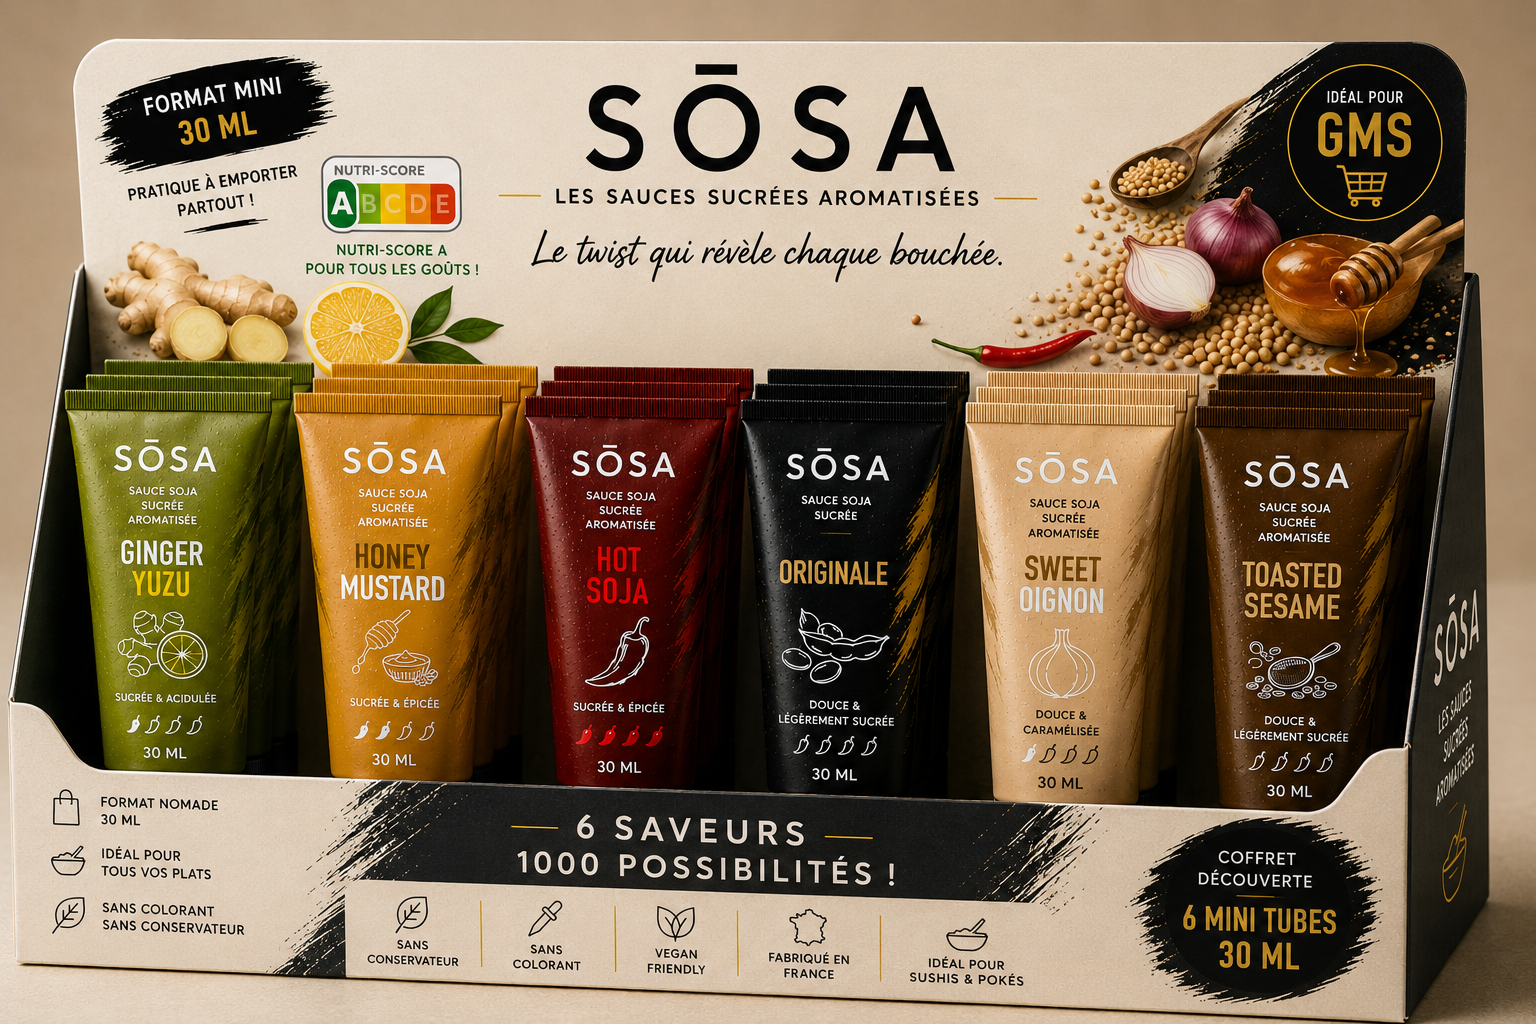
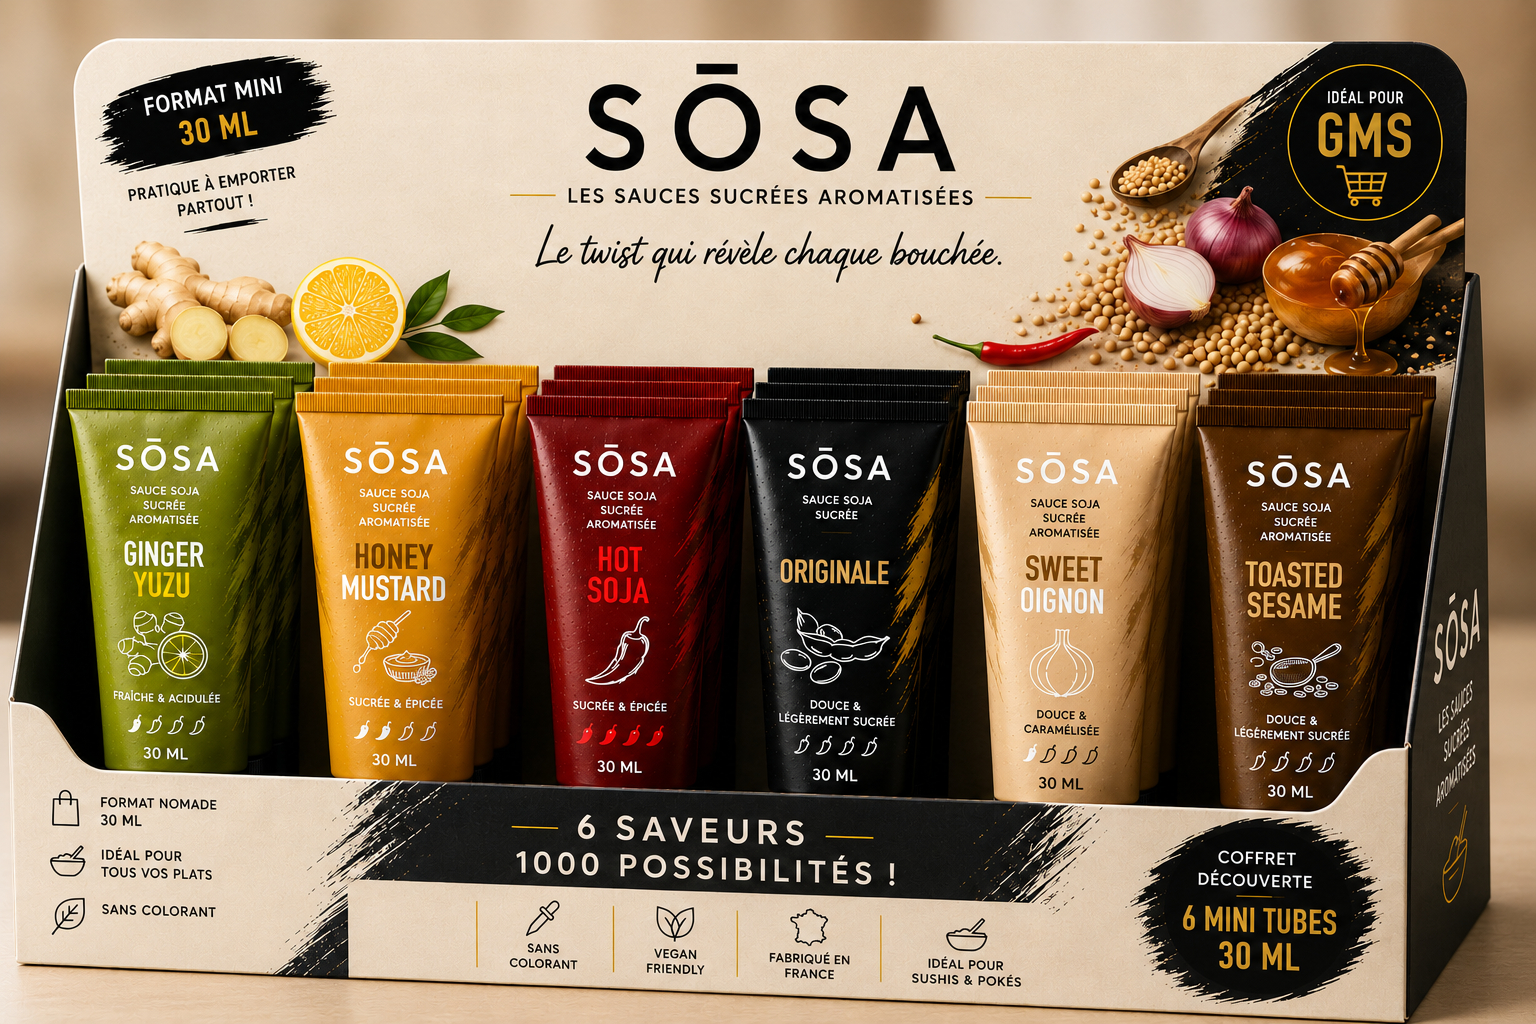
correction text contenu

diff --git a/src/data/products.js b/src/data/products.js
@@ -25,7 +25,7 @@ export const PRODUCTS = [
       { name: 'Tartare de Saumon & Mangue', icon: '🥭', tip: 'Le contraste piment-mangue crée une dépendance immédiate.' },
       { name: 'Brochettes Yakitori & Viandes grillées', icon: '🍢', tip: 'Laque épicée caramélisant au contact du grill.' }
     ],
-    features: ['Sans conservateur', 'Sans colorant', 'Vegan Friendly', 'Fabriqué en France', 'Format Squeeze 150 ML'],
+    features: ['Sans colorant', 'Vegan Friendly', 'Fabriqué en France', 'Format Squeeze 150 ML'],
     chefQuote: 'Le kick parfait qui transforme un simple roll en un moment de pure intensité.'
   },
   {
@@ -54,7 +54,7 @@ export const PRODUCTS = [
       { name: 'Sashimis de Saumon sauvage', icon: '🍣', tip: 'Casse la richesse du saumon avec éclat.' },
       { name: 'Céviche & Tartare acidulé', icon: '🍋', tip: 'Idéal en marinade minute avec coriandre fraîche.' }
     ],
-    features: ['Sans conservateur', 'Sans colorant', 'Vegan Friendly', 'Fabriqué en France', 'Format Squeeze 150 ML'],
+    features: ['Sans colorant', 'Vegan Friendly', 'Fabriqué en France', 'Format Squeeze 150 ML'],
     chefQuote: 'Le coup de fouet aromatique indispensable pour les amateurs de poisson cru ultra-frais.'
   },
   {
@@ -83,7 +83,7 @@ export const PRODUCTS = [
       { name: 'Avocado Toast & Œuf mollet', icon: '🥑', tip: 'Drizzle artistique pour un brunch haut de gamme.' },
       { name: 'Saumon rôti au four', icon: '🔥', tip: 'Badigeonner avant enfournement pour une croûte caramélisée.' }
     ],
-    features: ['Sans conservateur', 'Sans colorant', 'Vegan Friendly', 'Fabriqué en France', 'Format Squeeze 150 ML'],
+    features: ['Sans colorant', 'Vegan Friendly', 'Fabriqué en France', 'Format Squeeze 150 ML'],
     chefQuote: 'L\'alliance inattendue qui fait le pont parfait entre street-food festive et finesse culinaire.'
   },
   {
@@ -112,7 +112,7 @@ export const PRODUCTS = [
       { name: 'Tataki de Thon ou Bœuf', icon: '🥩', tip: 'Souligne la croûte saisie et le cœur fondant.' },
       { name: 'Salade de Chou Japonaise', icon: '🥗', tip: 'Dressing onctueux pour un croquant parfait.' }
     ],
-    features: ['Sans conservateur', 'Sans colorant', 'Vegan Friendly', 'Fabriqué en France', 'Format Squeeze 150 ML'],
+    features: ['Sans colorant', 'Vegan Friendly', 'Fabriqué en France', 'Format Squeeze 150 ML'],
     chefQuote: 'Une longueur en bouche bluffante grâce à la chaleur du sésame artisanal torréfié.'
   },
   {
@@ -141,7 +141,7 @@ export const PRODUCTS = [
       { name: 'Poké Végétarien & Tofu fumé', icon: '🥑', tip: 'Sublime l\'avocat et le tofu grillé.' },
       { name: 'Tempuras de Crevettes', icon: '🍤', tip: 'L\'accord croustillant-fondant le plus addictif.' }
     ],
-    features: ['Sans conservateur', 'Sans colorant', 'Vegan Friendly', 'Fabriqué en France', 'Format Squeeze 150 ML'],
+    features: ['Sans colorant', 'Vegan Friendly', 'Fabriqué en France', 'Format Squeeze 150 ML'],
     chefQuote: 'La sauce réconfort par excellence, douce et régressive avec une touche gastronomique.'
   },
   {
@@ -170,7 +170,7 @@ export const PRODUCTS = [
       { name: 'Poké Bowl Hawaïen', icon: '🥗', tip: 'En base assaisonnée sur le riz tiède vinaigré.' },
       { name: 'Riz sauté & Wok de légumes', icon: '🥢', tip: 'En fin de cuisson pour une laque brillante et savoureuse.' }
     ],
-    features: ['Sans conservateur', 'Sans colorant', 'Vegan Friendly', 'Fabriqué en France', 'Format Squeeze 150 ML'],
+    features: ['Sans colorant', 'Vegan Friendly', 'Fabriqué en France', 'Format Squeeze 150 ML'],
     chefQuote: 'La quintessence du soja sucré. Une texture soyeuse qui nappe sans jamais saturer le palais.'
   },
   {
@@ -199,7 +199,7 @@ export const PRODUCTS = [
       { name: 'Smash Burgers & Barbecue', icon: '🍔', tip: 'Une touche fumée gastronomique dans vos sauces burger.' },
       { name: 'Légumes racines rôtis', icon: '🥕', tip: 'Caramélisation et parfum de braise irrésistible.' }
     ],
-    features: ['Sans conservateur', 'Sans colorant', 'Vegan Friendly', 'Fabriqué en France', 'Format Squeeze 150 ML'],
+    features: ['Sans colorant', 'Vegan Friendly', 'Fabriqué en France', 'Format Squeeze 150 ML'],
     chefQuote: 'Une signature aromatique unique qui donne à n\'importe quel plat un goût de cuisson au feu de bois.'
   },
   {
@@ -228,7 +228,7 @@ export const PRODUCTS = [
       { name: 'Tofu grillé & Champignons Shiitaké', icon: '🍄', tip: 'Amplifie le goût boisé et la texture fondante.' },
       { name: 'Carpaccio de Bœuf Wagyu', icon: '🥩', tip: 'Un contraste visuel et un accord gras-minéral sublime.' }
     ],
-    features: ['Sans conservateur', 'Sans colorant', 'Vegan Friendly', 'Fabriqué en France', 'Format Squeeze 150 ML'],
+    features: ['Sans colorant', 'Vegan Friendly', 'Fabriqué en France', 'Format Squeeze 150 ML'],
     chefQuote: 'Le sésame noir apporte une rusticité noble et un relief aromatique hors du commun.'
   },
   {
@@ -257,7 +257,7 @@ export const PRODUCTS = [
       { name: 'Gyozas Vapeur', icon: '🥟', tip: 'Dipping sauce nette et saline pour les farces juteuses.' },
       { name: 'Ramen & Bouillons clairs', icon: '🍜', tip: 'Une touche finale pour approfondir le bouillon.' }
     ],
-    features: ['Sans conservateur', 'Sans colorant', 'Vegan Friendly', 'Fabriqué en France', 'Format Squeeze 150 ML'],
+    features: ['Sans colorant', 'Vegan Friendly', 'Fabriqué en France', 'Format Squeeze 150 ML'],
     chefQuote: 'La précision chirurgicale de la sauce salée : ni trop agressive, ni effacée, la définition même de l\'équilibre.'
   }
 ];
@@ -278,7 +278,7 @@ export const BRAND_PILLARS = [
   {
     title: '100% Vegan & Sans Additifs',
     subtitle: 'Pureté des ingrédients',
-    desc: 'Aucun colorant artificiel, aucun conservateur chimique. Une composition saine qui sublime le goût brut de chaque condiment.',
+    desc: 'Aucun colorant artificiel. Une composition soignée et saine qui sublime le goût brut de chaque condiment.',
     icon: 'Leaf'
   },
   {

diff --git a/src/components/MiniProSection.jsx b/src/components/MiniProSection.jsx
@@ -115,18 +115,18 @@ export default function MiniProSection({ onOpenB2B }) {
         {/* ==================================================================== */}
         {/* TITRE PENSÉ POUR LES RESTAURANTS JAPONAIS & SUSHI BARS               */}
         {/* ==================================================================== */}
-        <div className="text-center max-w-3xl mx-auto mb-10 sm:mb-14">
+        <div className="text-center max-w-4xl mx-auto mb-10 sm:mb-14">
           <span className="text-[10px] sm:text-[11px] font-mono uppercase tracking-[0.22em] sm:tracking-[0.3em] text-amber-400 block mb-3 font-semibold">
             Restaurateurs, faites la différence à chaque bouchée
           </span>
-          <h2 className="mini-pro-title text-3xl sm:text-5xl md:text-6xl font-heading font-black uppercase text-white tracking-tight leading-[1.05]">
+          <h2 className="mini-pro-title text-3xl sm:text-5xl md:text-6xl font-heading font-black uppercase text-white tracking-tight leading-[1.14] sm:leading-[1.16]">
             Le format 30 ml <br />
-            <span className="title-accent-gradient text-transparent bg-clip-text bg-gradient-to-r from-amber-200 via-amber-400 to-yellow-400">
-              pensé pour vos sushis.
+            <span className="title-accent-gradient inline-block pt-2 pb-1 text-transparent bg-clip-text bg-gradient-to-r from-amber-200 via-amber-400 to-yellow-400">
+              pensé pour la livraison de vos sushis.
             </span>
           </h2>
           <p className="mini-pro-subtitle text-zinc-400 mt-4 text-sm sm:text-base font-light max-w-2xl mx-auto leading-relaxed">
-            Finies les coupelles de soja renversées et les sachets plastiques bas de gamme. 5 recettes uniques au format squeeze 30 ml — la dose idéale pour accompagner un plateau de 12 à 18 sushis, en salle comme en livraison.
+            Finies les coupelles de soja renversées et les sachets plastiques pas pratique. 9 recettes uniques au format squeeze 30 ml — la dose idéale pour accompagner un plateau de sushis, en salle comme en livraison.
           </p>
         </div>
 
@@ -135,25 +135,7 @@ export default function MiniProSection({ onOpenB2B }) {
         {/* ==================================================================== */}
         <div className="relative mb-16 sm:mb-24">
 
-          {/* Subtle Top Navigation Track */}
-          <div className="flex items-center justify-center gap-2 sm:gap-6 mb-8 sm:mb-12 overflow-x-auto scrollbar-none pb-2">
-            {MINI_PRO_ITEMS.map((item) => {
-              const isSelected = item.id === activeItem.id;
-              return (
-                <button
-                  key={item.id}
-                  onClick={() => setActiveItem(item)}
-                  className={`text-xs sm:text-sm tracking-wider uppercase transition-all duration-300 py-1.5 px-3 rounded-full cursor-pointer flex items-center gap-2 shrink-0 ${isSelected
-                      ? 'text-white font-bold bg-white/10 shadow-sm'
-                      : 'mini-pro-track-inactive text-zinc-500 hover:text-zinc-300'
-                    }`}
-                >
-                  <span className="font-mono text-[10px] text-amber-400">{item.num}</span>
-                  <span className="font-heading">{item.name}</span>
-                </button>
-              );
-            })}
-          </div>
+
 
           {/* Runway of the 5 Bottles standing in pure space */}
           <div className="relative flex items-end justify-between sm:justify-around gap-1 sm:gap-4 px-2 sm:px-8 pt-10 sm:pt-14 pb-4">
@@ -192,29 +174,6 @@ export default function MiniProSection({ onOpenB2B }) {
                     />
                   </motion.div>
 
-                  {/* Clean Minimalist Under-Bottle Marker : Trait d'or d'orfèvre */}
-                  <div className="mt-4 flex flex-col items-center gap-1 w-full">
-                    <span className={`mini-pro-label text-xs sm:text-sm font-heading font-bold tracking-wider transition-colors text-center ${isSelected ? 'text-white' : 'text-zinc-400 group-hover:text-zinc-200'
-                      }`}>
-                      {item.name}
-                    </span>
-                    <span className="mini-pro-volume text-[10px] font-mono tracking-widest font-semibold text-amber-400">
-                      30 ML
-                    </span>
-
-                    {/* Fin trait d'or horizontal d'orfèvre */}
-                    <div className="h-[2px] w-full flex items-center justify-center mt-1">
-                      {isSelected ? (
-                        <motion.div
-                          layoutId="activeBottleGoldLine"
-                          className="w-10 sm:w-14 h-[2px] bg-gradient-to-r from-amber-400 via-amber-300 to-amber-500 rounded-full shadow-[0_0_8px_rgba(245,158,11,0.5)]"
-                          transition={{ type: 'spring', stiffness: 350, damping: 28 }}
-                        />
-                      ) : (
-                        <div className="gold-inlay-inactive w-3.5 h-[1px] bg-white/10 group-hover:bg-amber-400/30 group-hover:w-5 transition-all duration-300" />
-                      )}
-                    </div>
-                  </div>
                 </div>
               );
             })}

diff --git a/src/components/Hero.jsx b/src/components/Hero.jsx
@@ -1,5 +1,5 @@
 import React, { useRef, useEffect, useState } from 'react';
-import { ArrowDown, Sparkles, Compass } from 'lucide-react';
+import { ArrowDown } from 'lucide-react';
 
 export default function Hero({ onSelectFlavor }) {
   const videoRef = useRef(null);
@@ -21,7 +21,7 @@ export default function Hero({ onSelectFlavor }) {
   }, [isMobile]);
 
   return (
-    <section className="relative min-h-[100dvh] flex items-center justify-center overflow-hidden" style={{ backgroundColor: 'var(--bg-page)' }}>
+    <section className="relative min-h-[100dvh] flex flex-col justify-end items-center overflow-hidden" style={{ backgroundColor: 'var(--bg-page)' }}>
       {/* 1. CINEMATIC BACKGROUND VIDEO (100% silencieux et continu) */}
       <div className="absolute inset-0 w-full h-full overflow-hidden z-0 pointer-events-none">
         <video
@@ -48,11 +48,11 @@ export default function Hero({ onSelectFlavor }) {
         <div className="absolute top-0 inset-x-0 h-32" style={{ background: `linear-gradient(to bottom, var(--hero-top-fade), var(--hero-top-fade, transparent) 50%, transparent)` }} />
 
         {/* Bottom Seamless Fade into Page Background */}
-        <div className="absolute bottom-0 inset-x-0 h-28" style={{ background: `linear-gradient(to top, var(--bg-body), var(--bg-body, transparent) 70%, transparent)` }} />
+        <div className="absolute bottom-0 inset-x-0 h-36 sm:h-48" style={{ background: `linear-gradient(to top, var(--bg-body), var(--bg-body, transparent) 60%, transparent)` }} />
       </div>
 
-      {/* 2. HERO CONTENT */}
-      <div className="relative z-10 max-w-5xl mx-auto px-4 sm:px-6 lg:px-8 pt-24 pb-6 sm:pt-28 sm:pb-8 text-center flex flex-col items-center">
+      {/* 2. HERO CONTENT — Positionné en bas pour dégager la vidéo et les flacons au centre */}
+      <div className="relative z-10 max-w-5xl mx-auto px-4 sm:px-6 lg:px-8 pt-24 pb-8 sm:pb-12 text-center flex flex-col items-center w-full">
 
         {/* Main Punchy Headline */}
         <h1 className="text-3xl sm:text-6xl md:text-7xl lg:text-8xl font-black uppercase text-white tracking-tight leading-[1.02] sm:leading-[0.95] max-w-4xl drop-shadow-2xl mb-5 sm:mb-6">
@@ -69,24 +69,7 @@ export default function Hero({ onSelectFlavor }) {
           Pensées pour sublimer vos sushis et pokés.
         </p>
 
-        {/* CTA Buttons */}
-        <div className="flex flex-col sm:flex-row items-center justify-center gap-2.5 sm:gap-4 w-full sm:w-auto mb-4 sm:mb-6">
-          <a
-            href="#collection"
-            className="w-full max-w-[240px] sm:max-w-none sm:w-auto px-5 sm:px-8 py-2.5 sm:py-4 rounded-full bg-gradient-to-r from-amber-400 via-amber-500 to-yellow-500 hover:from-amber-300 hover:to-amber-400 text-black font-bold text-[11px] sm:text-sm uppercase tracking-wider sm:tracking-widest shadow-lg sm:shadow-xl shadow-amber-500/20 transition-all duration-300 hover:scale-105 active:scale-95 flex items-center justify-center gap-2 group"
-          >
-            <Sparkles className="w-3.5 h-3.5 sm:w-4 sm:h-4 transition-transform group-hover:rotate-12" />
-            <span>Explorer nos saveurs<span className="hidden sm:inline"> originales</span></span>
-          </a>
 
-          <a
-            href="#trouver"
-            className="hero-secondary-btn w-full max-w-[240px] sm:max-w-none sm:w-auto px-5 sm:px-8 py-2.5 sm:py-4 rounded-full font-semibold text-[11px] sm:text-sm uppercase tracking-wider sm:tracking-widest backdrop-blur-md transition-all duration-300 hover:scale-105 active:scale-95 flex items-center justify-center gap-2"
-          >
-            <Compass className="hero-btn-icon w-3.5 h-3.5 sm:w-4 sm:h-4" />
-            <span>Où nous trouver</span>
-          </a>
-        </div>
 
         {/* Scroll Indicator */}
         <div className="flex justify-center">

diff --git a/src/components/GrandeDistribution.jsx b/src/components/GrandeDistribution.jsx
@@ -25,9 +25,9 @@ const PILLARS = [
   },
   {
     num: '二',
-    tag: 'Argument santé',
-    title: 'Nutri-Score A',
-    text: 'Un Nutri-Score A pour tous les goûts : un repère qui rassure vos clients et fait la différence face aux sauces classiques.',
+    tag: 'Signature unique',
+    title: 'Recettes exclusives',
+    text: 'Des twists de saveurs inédits (Yuzu, Fumé, Piment doux, Sésame...) qui dynamisent vos linéaires et créent la surprise.',
   },
   {
     num: '三',
@@ -37,9 +37,9 @@ const PILLARS = [
   },
   {
     num: '四',
-    tag: 'Clean label',
+    tag: 'Savoir-faire',
     title: 'Fabriqué en France',
-    text: 'Sans colorant, sans conservateur, vegan friendly. Une marque premium et responsable, en phase avec les attentes actuelles.',
+    text: "Élaboré avec passion en France, sans colorant artificiel. Une sélection d'ingrédients nobles pour une qualité irréprochable en rayon.",
   },
 ];
 
@@ -158,16 +158,15 @@ export default function GrandeDistribution({ onOpenB2B }) {
 
             <h2
               id="gd-title"
-              className="font-heading font-black uppercase tracking-tight leading-[0.98] text-[2.15rem] sm:text-5xl md:text-6xl lg:text-7xl gd-text"
+              className="font-heading font-black uppercase tracking-tight leading-[1.02] text-2xl sm:text-4xl md:text-5xl lg:text-6xl gd-text"
             >
-              Un présentoir.
-              <br />
-              <span className="gd-title-accent">Six raisons d'acheter.</span>
+              Animez vos corners sushi et têtes de gondole <br />
+              <span className="gd-title-accent">avec nos innovations.</span>
             </h2>
 
             <p className="mt-5 max-w-2xl text-sm sm:text-base leading-relaxed font-light gd-muted">
               Le coffret découverte SŌSA transforme le linéaire en vitrine japonaise : 6 mini tubes de 30 ml, un
-              packaging premium qui arrête le regard et un Nutri-Score A qui rassure vos clients.
+              packaging premium qui arrête le regard et séduit vos clients dès le premier coup d'œil.
             </p>
           </div>
 
@@ -354,7 +353,7 @@ export default function GrandeDistribution({ onOpenB2B }) {
               {[
                 { v: '6', l: 'Saveurs' },
                 { v: '30', l: 'ml / tube' },
-                { v: 'A', l: 'Nutri-Score' },
+                { v: 'FR', l: 'Origine France' },
               ].map((s) => (
                 <div key={s.l} className="gd-stat rounded-xl px-3 py-3 text-center">
                   <dt className="sr-only">{s.l}</dt>

diff --git a/src/components/FlavorChameleon.jsx b/src/components/FlavorChameleon.jsx
@@ -132,10 +132,7 @@ export default function FlavorChameleon({ selectedId, onSelectFlavor, onOpenB2B 
 
             {/* Option 3 : Barre d'Échantillons & Miniatures sous le tube (Desktop & Tablette uniquement) */}
             <div className="hidden md:block w-full max-w-[460px] mt-4 sm:mt-5">
-              <div className="flex items-center justify-between px-2 mb-2">
-                <span className="text-[10px] sm:text-xs font-bold uppercase tracking-wider text-zinc-400">
-                  Échantillons ({PRODUCTS.length})
-                </span>
+              <div className="flex items-center justify-end px-2 mb-2">
                 <div className="flex items-center gap-1.5">
                   <span
                     className="w-2 h-2 rounded-full animate-pulse"
